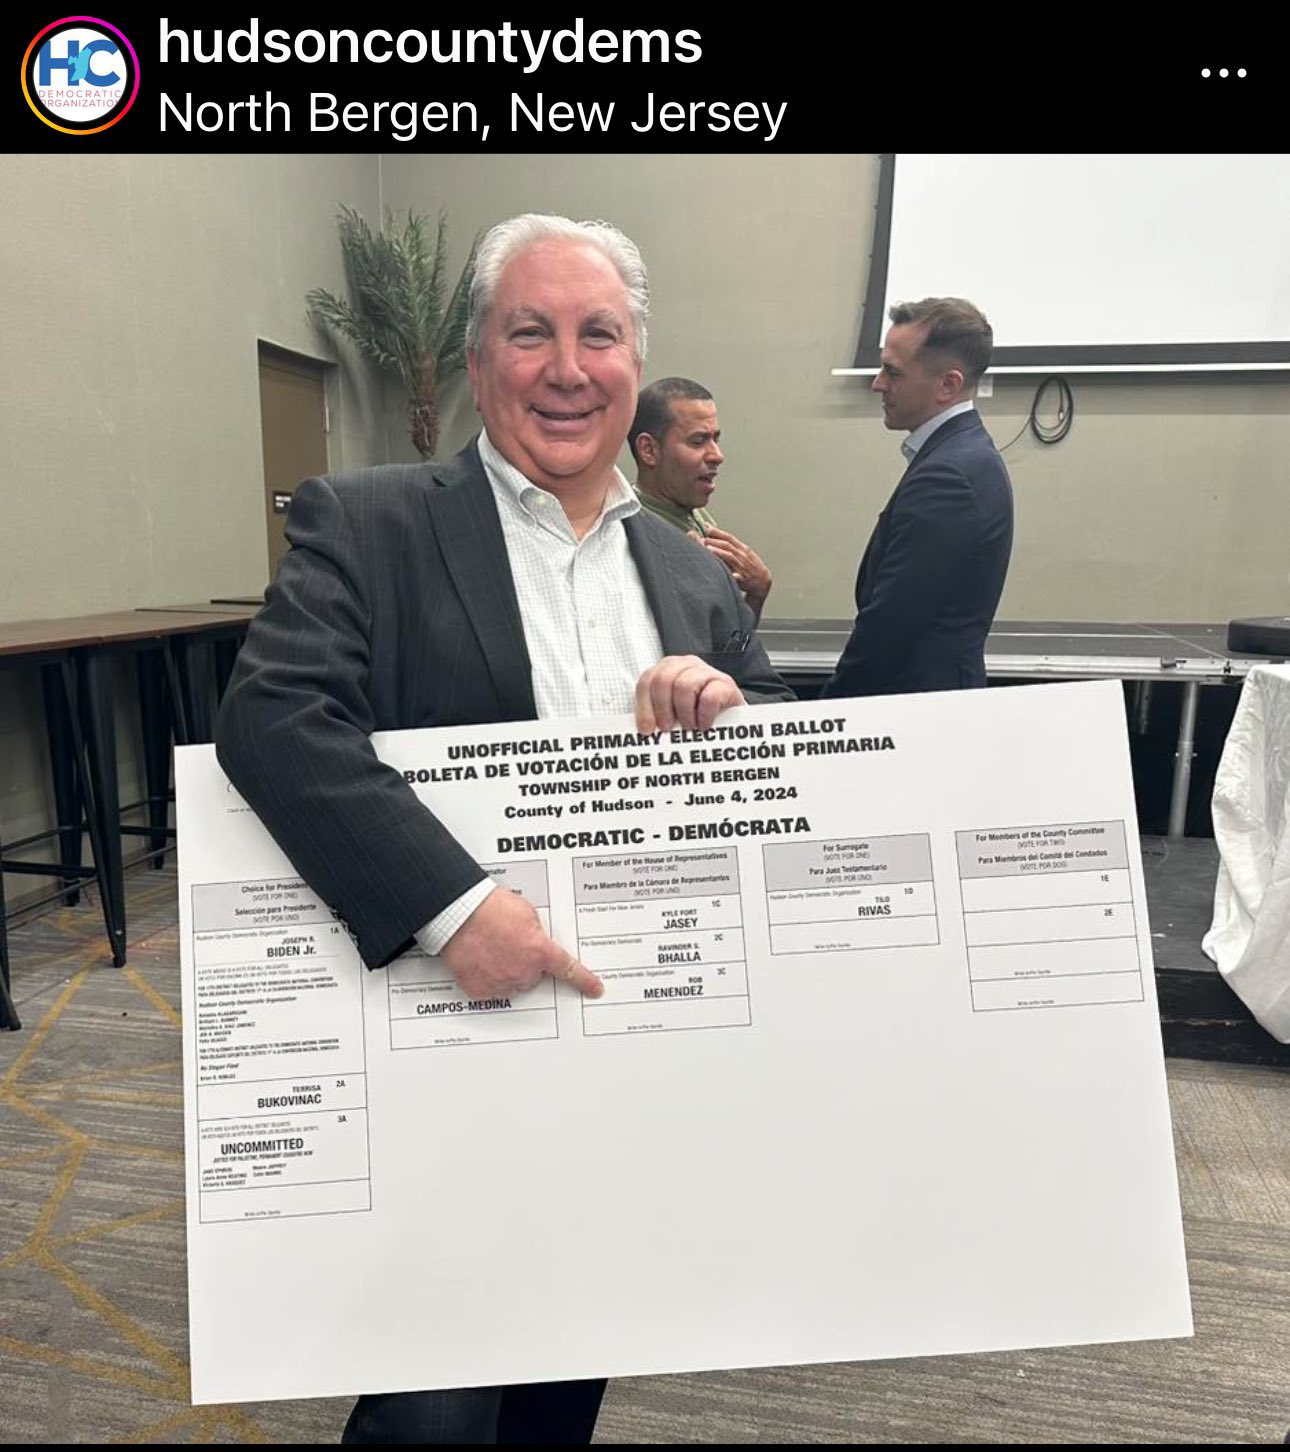
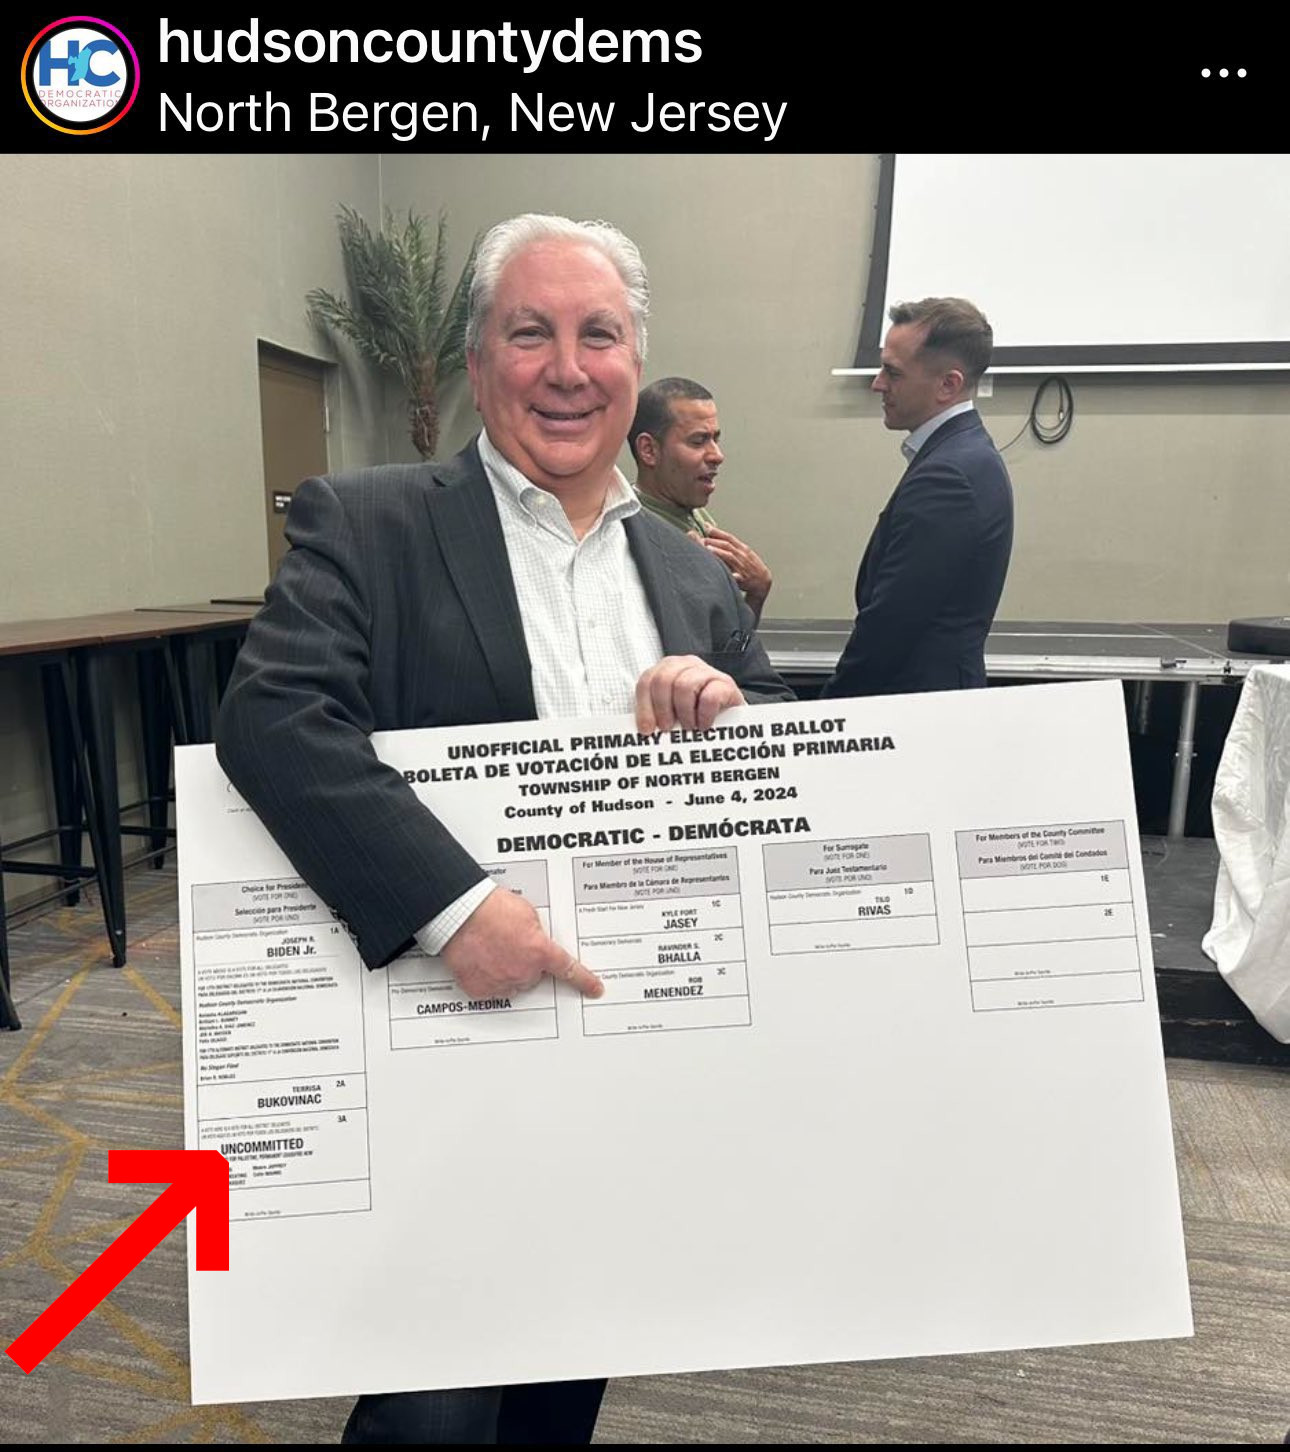
updating image on letter to barber, copy editing

Changed region(s): [[0.0, 0.7748, 0.186, 0.9607]]

diff --git a/letter-to-barber.md b/letter-to-barber.md
@@ -133,15 +133,19 @@ Here’s where we’ve been omitted from ballot drawings with the two other Choi
 | Warren County || 
 
 Sincerely,
+
 Suraj Patel, Isaac Jimenez, Fatima Mughal
+
 *Committee on Vacancies - Uncommitted NJ*
 
 
 CC: Governor Murphy
+
 Lt. Gov, Secretary of State, Tahesha Way
+
 Matthew Platkin, Attorney General
 
-Statutes Cited
+Statutes Cited:
 1. <u>N.J.S.A.</u> 19:23-24. "The position which the candidates and bracketed groups of
 names of candidates for the primary... shall have upon the ballots used for the
 primary election..., in the case of candidates for nomination for.. choice for
